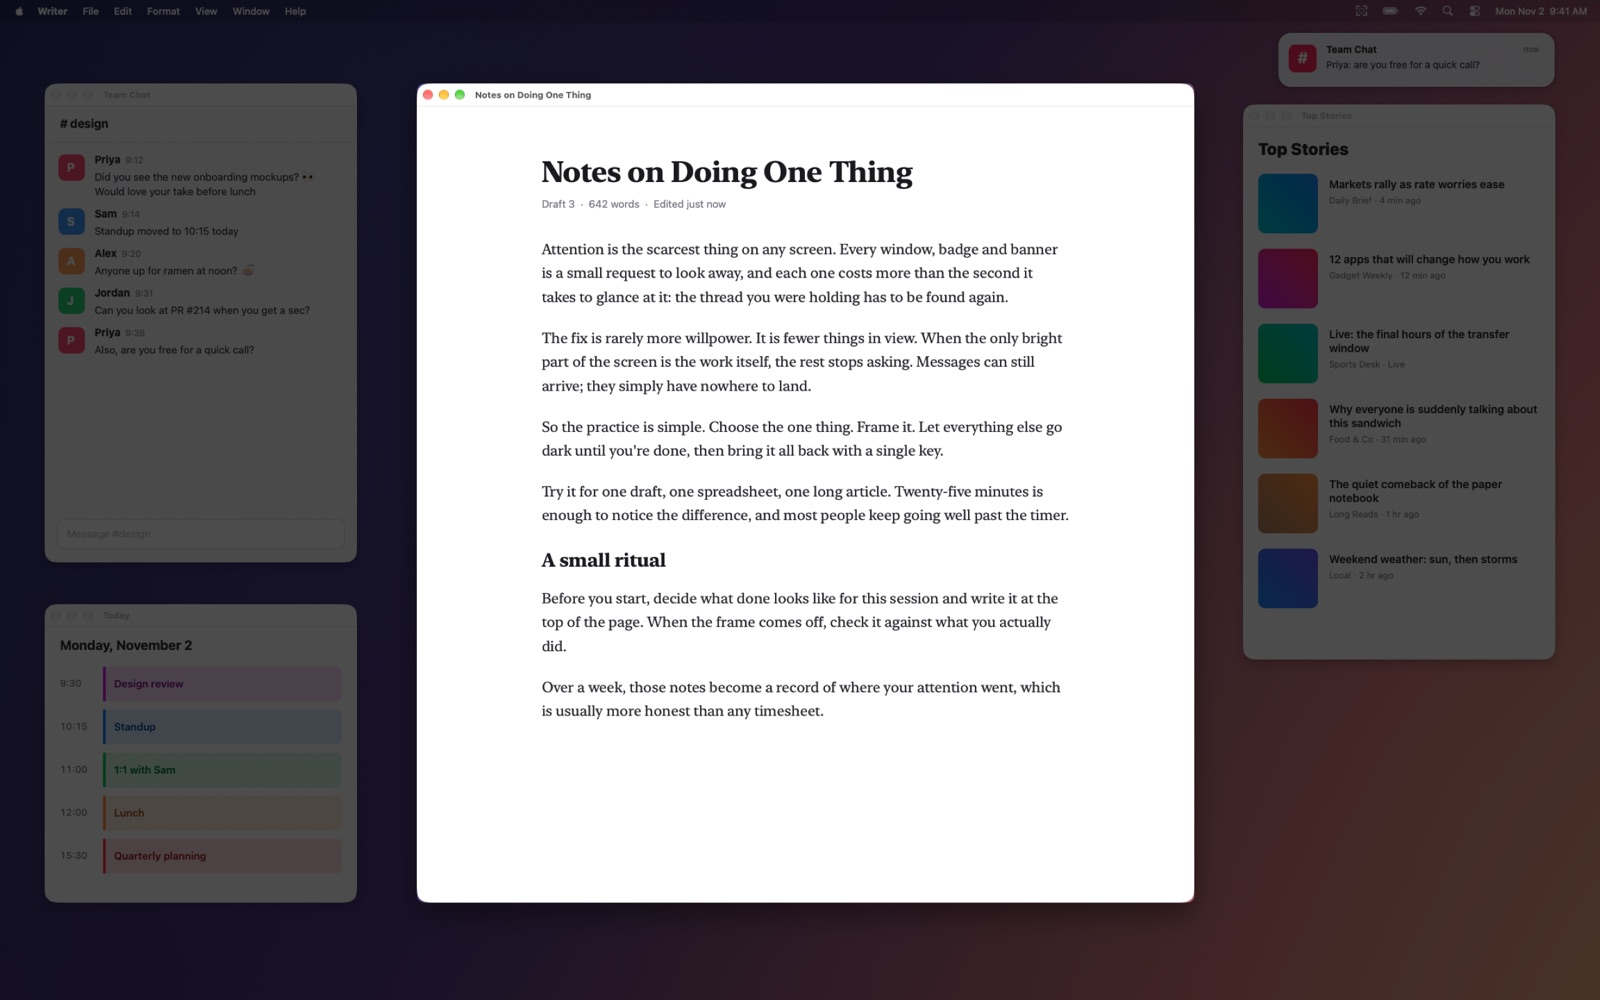
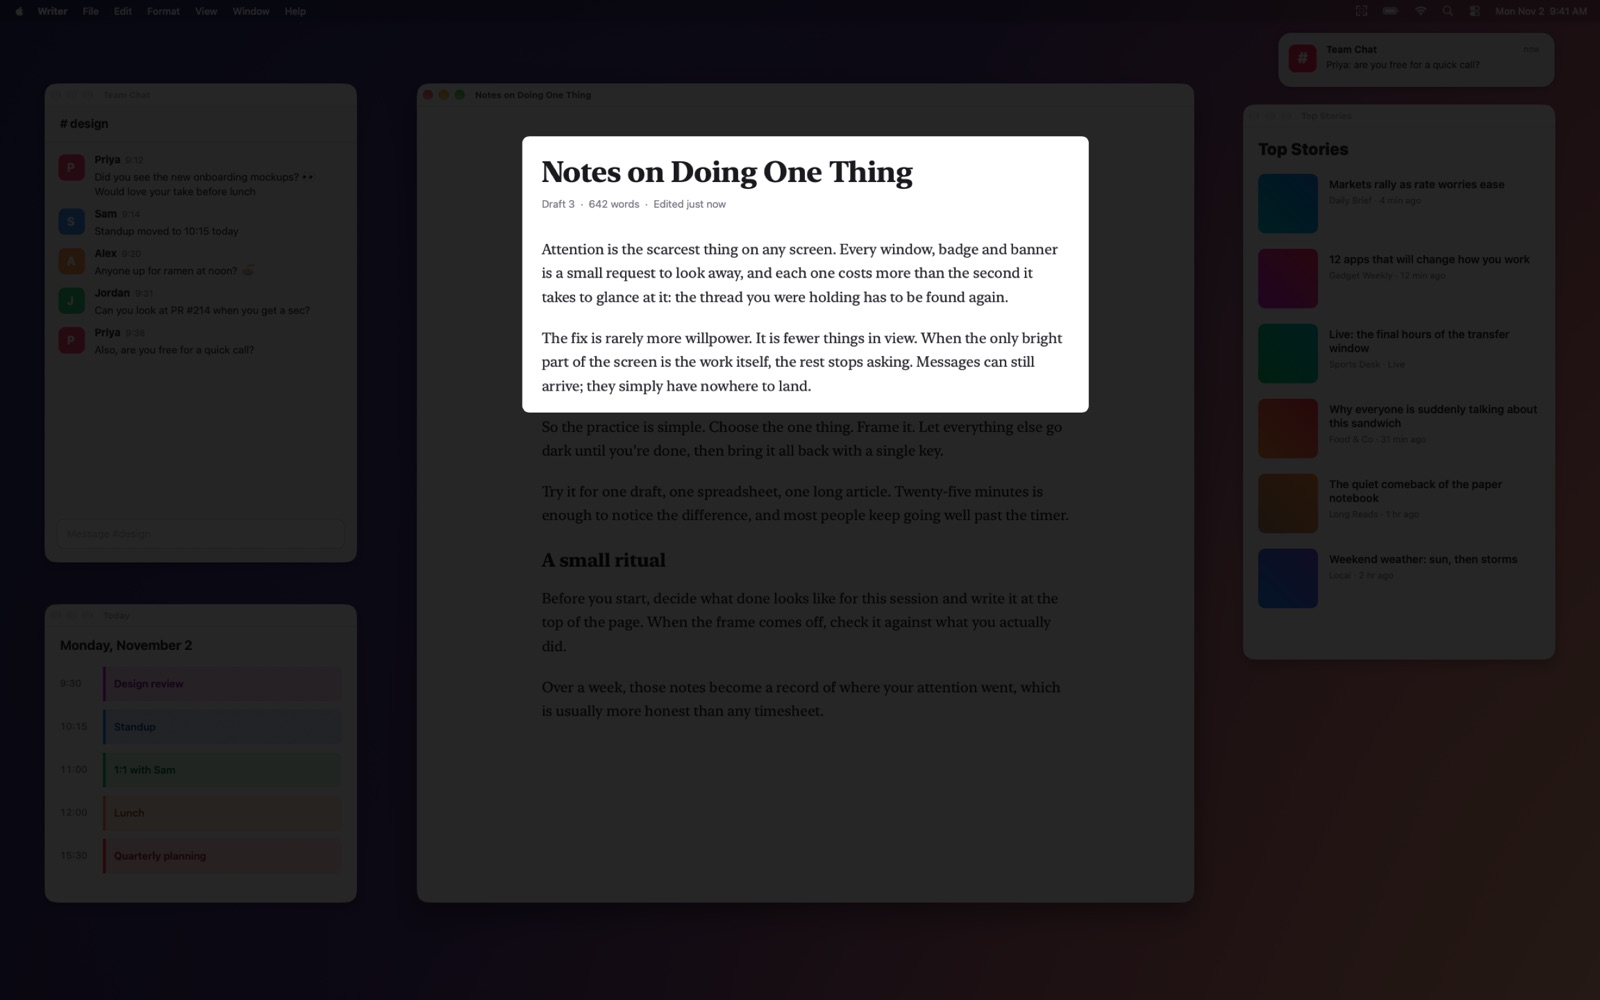
Update site

diff --git a/index.html b/index.html
@@ -15,7 +15,7 @@
     <h1>Focus Frame</h1>
     <p class="tagline">Dim everything but your work.</p>
     <img class="shot" src="screenshot.jpg" width="1600" height="1000"
-         alt="A writing app framed by Focus Frame while chat, news and calendar windows around it are dimmed">
+         alt="Focus Frame lighting the opening paragraphs of a document while the rest of the screen, including chat, news and calendar windows, is dimmed">
   </header>
 
   <p>Focus Frame is a small menu bar app for macOS that dims everything on your screen except the part
